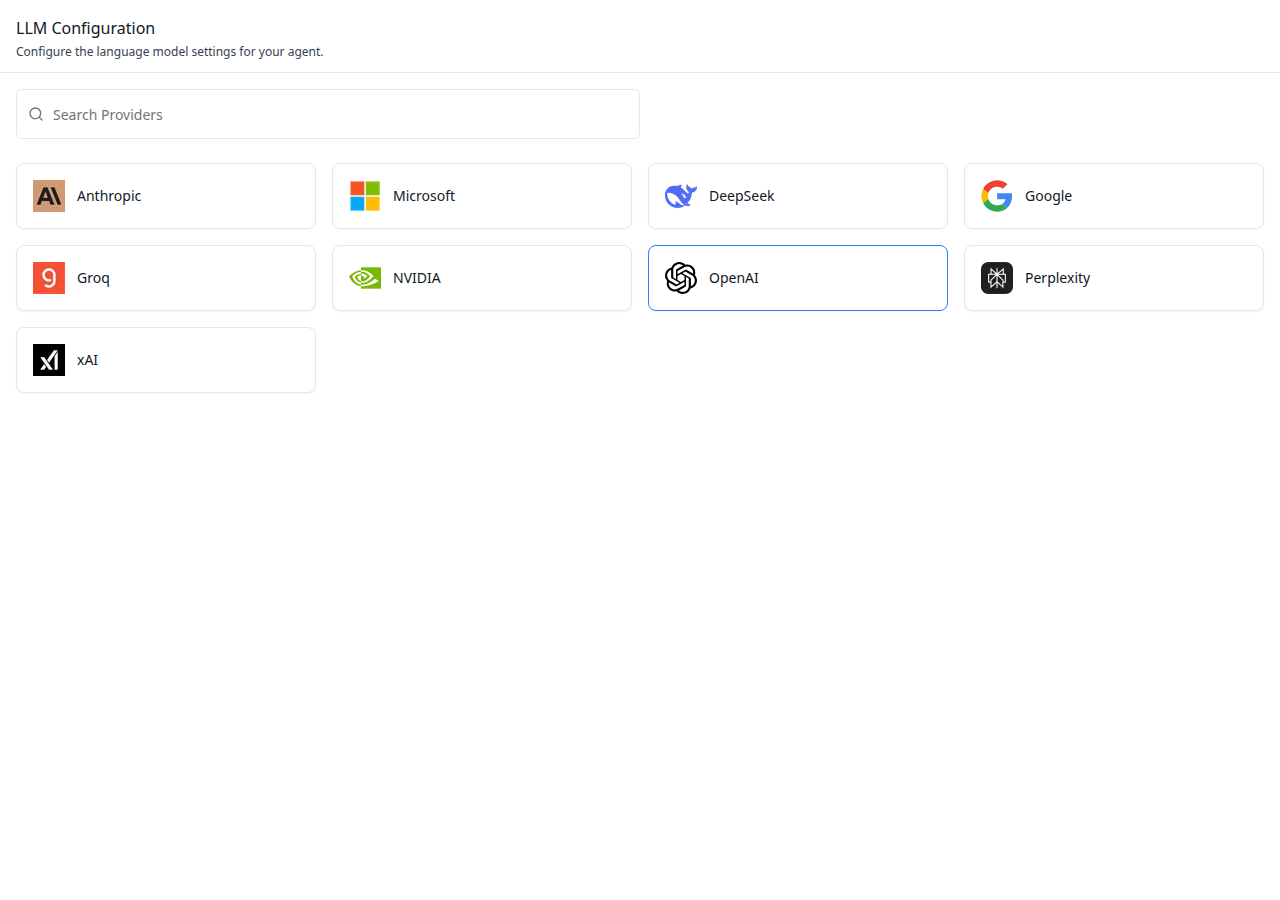
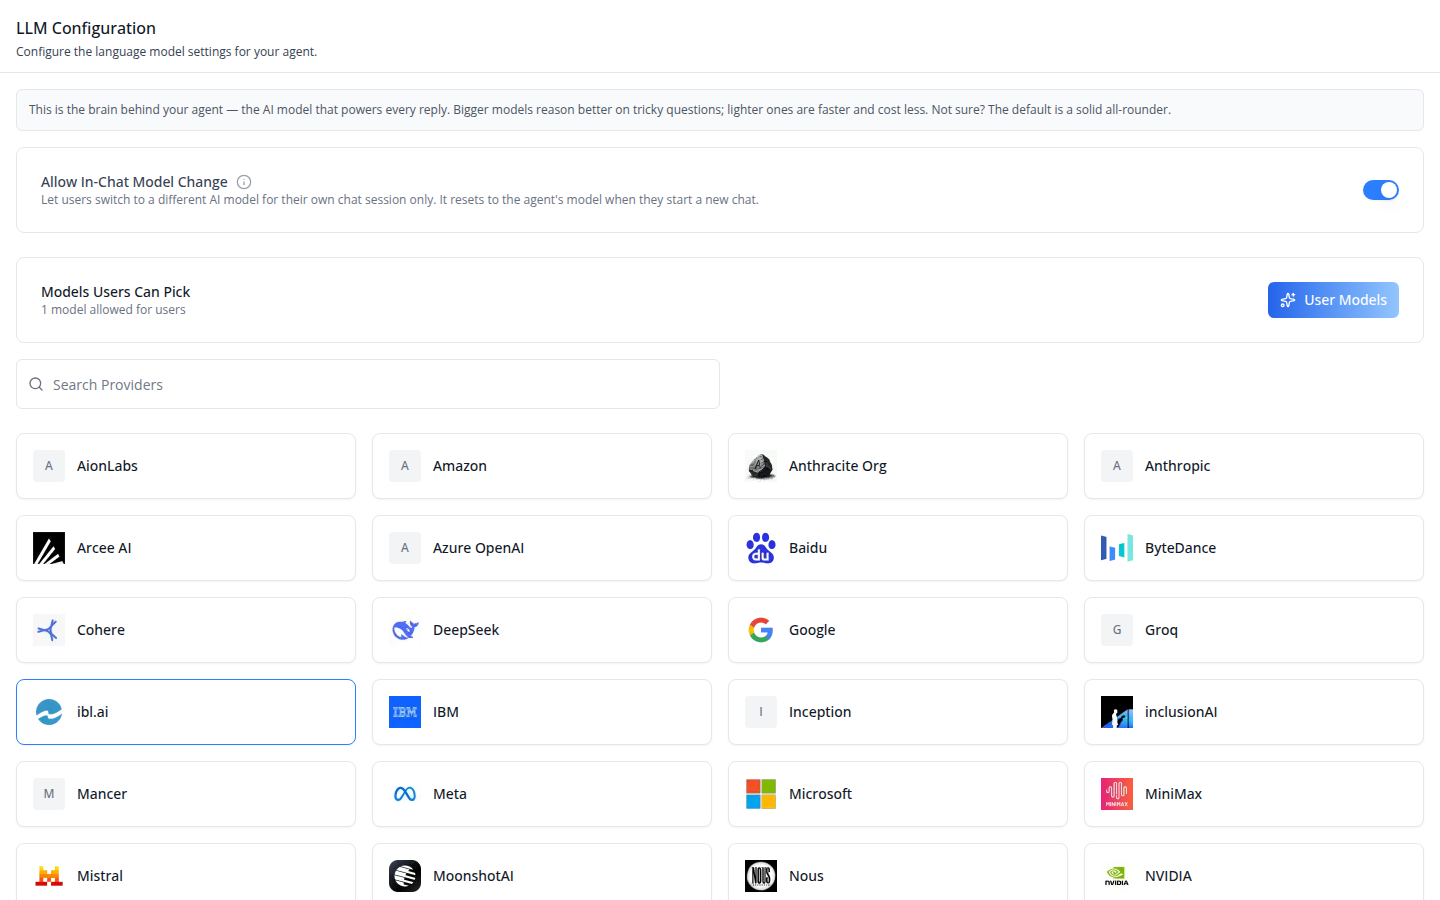
docs(agent-llm): in-chat model change and the user models picker
Claude-Session: https://claude.ai/code/session_01KawN1dMH6MkyEsV7W7S2w7

diff --git a/skills/agents/iblai-vibe-agent-llm/SKILL.md b/skills/agents/iblai-vibe-agent-llm/SKILL.md
@@ -1,6 +1,6 @@
 ---
 name: iblai-vibe-agent-llm
-description: Add the agent LLM tab (model provider selection) to your Next.js app
+description: Add the agent LLM tab (model provider selection, in-chat model change, models users can pick) to your Next.js app
 globs:
 alwaysApply: false
 metadata:
@@ -14,8 +14,34 @@ a modal for selecting specific models within a chosen provider. This is
 one tab in the wider agent-settings family. All tabs share the same
 `AgentSettingsProvider` wrapper.
 
-![LLM Tab](https://raw.githubusercontent.com/iblai/vibe/refs/heads/main/skills/agents/iblai-vibe-agent-llm/iblai-vibe-agent-llm.png)
+Above the grid sit two boxes:
+
+- **Allow In-Chat Model Change** -- a switch that lets users pick another
+  model for their own chat session (it resets to the agent's model on a new
+  chat). It moved here from Settings → Capabilities in `@iblai/iblai-js`
+  2.44.0.
+- **Models Users Can Pick** -- shown only to an organization admin
+  (`isTenantAdmin`) while the switch is on. It counts the models users are
+  allowed and holds the **User Models** button.
+
+![LLM tab -- Allow In-Chat Model Change and Models Users Can Pick above the provider grid](https://raw.githubusercontent.com/iblai/vibe/refs/heads/main/skills/agents/iblai-vibe-agent-llm/iblai-vibe-agent-llm.png)
+
+Clicking a provider card opens **LLM Selection**, where you pick the model
+this agent runs on:
+
 ![LLM Selection modal (models of the chosen provider)](https://raw.githubusercontent.com/iblai/vibe/refs/heads/main/skills/agents/iblai-vibe-agent-llm/iblai-vibe-agent-llm-2-model-selection.png)
+
+**User Models** opens a dialog of provider cards (searchable, with
+"N of M allowed" or "All allowed" on each). It sets which models users in
+the organization can pick, for every agent:
+
+![User Models dialog -- provider cards with how many models each allows](https://raw.githubusercontent.com/iblai/vibe/refs/heads/main/skills/agents/iblai-vibe-agent-llm/iblai-vibe-agent-llm-3-users-models.png)
+
+A card opens the same LLM Selection modal as a checklist: **Allow All
+{Provider} Models** (new models of that provider included), a checkbox per
+model, "N of M selected" and **Done**. Every tick saves at once:
+
+![LLM Selection as a checklist -- Allow All OpenAI Models and one checkbox per model](https://raw.githubusercontent.com/iblai/vibe/refs/heads/main/skills/agents/iblai-vibe-agent-llm/iblai-vibe-agent-llm-4-users-models-provider.png)
 
 > **Common setup (brand, conventions, env files, verification):** see [docs/skill-setup.md](https://raw.githubusercontent.com/iblai/vibe/refs/heads/main/docs/skill-setup.md).
 
@@ -48,15 +74,23 @@ uses), so the host supplies no mapper. Older SDK releases took a required
 "use client";
 
 import { AgentLLMTab } from "@iblai/iblai-js/web-containers/next";
+import { useAdminMode } from "@/lib/iblai/admin-mode";
 
 export default function AgentLLMPage() {
+  // An organization admin viewing in Admin mode (the starter's User/Admin switch).
+  const { adminMode } = useAdminMode();
   return (
     <div className="flex h-full flex-col bg-white">
-      <AgentLLMTab />
+      <AgentLLMTab isTenantAdmin={adminMode} />
     </div>
   );
 }
 ```
+
+`isTenantAdmin` only decides whether the **Models Users Can Pick** box and
+the User Models dialog render; the backend refuses the save for anyone who
+is not an organization admin. Leave it out (default `false`) on surfaces
+members reach, and in a "switch model" dialog opened from the chat.
 
 The tab reads `tenantKey`, `mentorId` and `username` from the nearest
 `<AgentSettingsProvider>`. Pass `mentorId` to configure a different agent
@@ -75,10 +109,16 @@ import { AgentLLMTab } from "@iblai/iblai-js/web-containers/next";
 
 <AgentLLMTab
   labels={{
-    header: { title: "Model configuration" },
+    header: { title: "Model Configuration" },
+    inChatModelChange: { label: "Let Users Switch Models" },
   }}
 />;
 ```
+
+`LLMTabLabels` groups: `header`, `infoBox`, `inChatModelChange` (`label`,
+`description`, `tooltip`, `tooltipAriaLabel`), `search`, `providerLogoAlt`,
+`toasts`, and `providerModal`. The User Models dialog's copy is not in
+`labels`; it follows the SDK's locale.
 
 ## Step 4: Use MCP Tools for Customization
 
@@ -96,6 +136,41 @@ Import from `@iblai/iblai-js/web-containers/next`.
 | `labels` | `DeepPartial<LLMTabLabels>` | No | Override user-visible strings |
 | `showConfigurationHeader` | `boolean` | No | Show/hide the configuration header (default `true`) |
 | `mentorId` | `string` | No | Configure this agent instead of the one from `<AgentSettingsProvider>` — for a model picker opened from a chat |
+| `isTenantAdmin` | `boolean` | No | Organization admin acting as one: while Allow In-Chat Model Change is on, shows **Models Users Can Pick** and the User Models dialog (default `false`) |
+
+## How it saves
+
+| Control | Request | Body |
+|---------|---------|------|
+| Model in LLM Selection | `PUT /api/ai-mentor/orgs/{org}/users/{username}/mentors/{mentor}/settings/` (`useEditMentorMutation`) | `llm_provider`, `llm_name` |
+| Allow In-Chat Model Change | same settings `PUT`, at once (through `executeGatedAction` when the provider sets one) | `enable_in_chat_llm_change` |
+| User Models dialog (read) | `GET /api/core/rbac/llm-access/status/?platform_key={org}` (`useGetLlmAccessQuery`) | -- |
+| Each tick in the checklist | `POST /api/core/rbac/llm-access/set/` (`useSetLlmAccessMutation`) | `{ platform_key, llm_resources }`, the whole list |
+
+`llm_resources` holds RBAC paths: `llms/` (every model), `llms/<provider>/`
+(every model of one provider, new ones included) and
+`llms/<provider>/models/<llm_name>` (one model), built from the provider
+`name` and the model `llm_name`. Saves run one at a time and the last tick
+wins. A failed save puts the tick back; a 400 names the model that is no
+longer offered and offers **Remove It**; unticking the last model asks
+first (**Save with No Models?**). The backend enforces the list: users
+who are not admins see only the allowed models in the chat's model
+picker. The endpoints are in [`/iblai-api-rbac`](https://raw.githubusercontent.com/iblai/vibe/refs/heads/main/skills/users/iblai-api-rbac/SKILL.md).
+
+Under RBAC (`enableRBAC`) the switch follows the agent's field permissions
+for `enable_in_chat_llm_change` and is read-only without write access.
+
+## Test ids
+
+| Element | `data-testid` |
+|---------|---------------|
+| Info box | `llm-info-box` |
+| Allow In-Chat Model Change switch | `llm-in-chat-model-change-toggle` |
+| Models Users Can Pick box, its count, its button | `users-models-summary`, `users-models-summary-count`, `llm-users-models-button` |
+| Provider card (grid) | `llm-provider-card` (`data-provider`, `data-disabled`) |
+| User Models dialog, provider card, card count | `users-models-dialog`, `users-models-provider-card` (`data-provider`), `users-models-count-<provider>` |
+| Checklist rows, Done | `users-models-allow-all-<provider>`, `users-models-model-<provider>-<llm_name>`, `users-models-done` |
+| Save refused, Remove It, confirm empty | `users-models-save-error`, `users-models-remove-rejected`, `users-models-confirm-empty-save` |
 
 ## Related Exports
 
@@ -105,6 +180,16 @@ From `@iblai/iblai-js/web-containers/next`:
 - `LLMTabLabels` -- type for the full label bundle.
 - `LLMProvider`, `LLMProviderType` -- types for provider data structures
   (`LLMProviderType` is the `{ name, chat_models }` provider row).
+- `LLMProviderModal` -- the LLM Selection modal, for opening it outside the
+  tab. Pass `selection` (type `LLMModelSelection`: `isSelected`, `toggle`,
+  `allSelected`, `toggleAll`, `labels`, `testIdPrefix`) instead of
+  `onSelect` / `isSelecting` / `mentorSettings` / `llms` to get the
+  checklist the User Models dialog uses.
+
+From `@iblai/iblai-js/data-layer`:
+
+- `useGetLlmAccessQuery({ platform_key })`,
+  `useSetLlmAccessMutation()` -- read and replace the models users can pick.
 
 From `@iblai/iblai-js/web-containers`, for custom UI that shows a
 provider's name or logo (an agents table, a transcript row):
@@ -125,6 +210,8 @@ Run `/iblai-vibe-ops-test` before telling the user the work is ready:
 2. `pnpm test` -- vitest must pass
 3. Touch test `/agents/<id>/llm` in the browser as `/iblai-vibe-ops-test` says: open it,
    use every control this skill added, read the console, check the phone width.
+   As an organization admin, turn on Allow In-Chat Model Change and check
+   that **Models Users Can Pick** appears and User Models opens.
 
 ## Important Notes
 
@@ -135,6 +222,11 @@ Run `/iblai-vibe-ops-test` before telling the user the work is ready:
   (`pnpm add sonner @iblai/iblai-web-mentor`)
 - **Shared provider**: `AgentSettingsProvider` must wrap the route at a
   layout level. See `/iblai-vibe-agent-setting` Step 2 for the full snippet.
+- **The switch moved**: Allow In-Chat Model Change used to be in
+  Settings → Capabilities. Since `@iblai/iblai-js` 2.44.0 it is only here,
+  and the Settings tab no longer sends `enable_in_chat_llm_change`.
+- **User Models is organization-wide**: the list applies to every agent in
+  the organization, not just the one being edited.
 - **Provider naming is backend-owned**: logos and display names come from
   the organization's model catalogue, so the tab needs no host mapper.
   Older SDK releases took a required `getLLMProviderDetails` prop; it no

diff --git a/adapters/codex/iblai-vibe-agent-llm.md b/adapters/codex/iblai-vibe-agent-llm.md
@@ -1,6 +1,6 @@
 # iblai-vibe-agent-llm
 
-> Add the agent LLM tab (model provider selection) to your Next.js app
+> Add the agent LLM tab (model provider selection, in-chat model change, models users can pick) to your Next.js app
 
 # /iblai-vibe-agent-llm
 
@@ -9,8 +9,34 @@ a modal for selecting specific models within a chosen provider. This is
 one tab in the wider agent-settings family. All tabs share the same
 `AgentSettingsProvider` wrapper.
 
-![LLM Tab](https://raw.githubusercontent.com/iblai/vibe/refs/heads/main/skills/agents/iblai-vibe-agent-llm/iblai-vibe-agent-llm.png)
+Above the grid sit two boxes:
+
+- **Allow In-Chat Model Change** -- a switch that lets users pick another
+  model for their own chat session (it resets to the agent's model on a new
+  chat). It moved here from Settings → Capabilities in `@iblai/iblai-js`
+  2.44.0.
+- **Models Users Can Pick** -- shown only to an organization admin
+  (`isTenantAdmin`) while the switch is on. It counts the models users are
+  allowed and holds the **User Models** button.
+
+![LLM tab -- Allow In-Chat Model Change and Models Users Can Pick above the provider grid](https://raw.githubusercontent.com/iblai/vibe/refs/heads/main/skills/agents/iblai-vibe-agent-llm/iblai-vibe-agent-llm.png)
+
+Clicking a provider card opens **LLM Selection**, where you pick the model
+this agent runs on:
+
 ![LLM Selection modal (models of the chosen provider)](https://raw.githubusercontent.com/iblai/vibe/refs/heads/main/skills/agents/iblai-vibe-agent-llm/iblai-vibe-agent-llm-2-model-selection.png)
+
+**User Models** opens a dialog of provider cards (searchable, with
+"N of M allowed" or "All allowed" on each). It sets which models users in
+the organization can pick, for every agent:
+
+![User Models dialog -- provider cards with how many models each allows](https://raw.githubusercontent.com/iblai/vibe/refs/heads/main/skills/agents/iblai-vibe-agent-llm/iblai-vibe-agent-llm-3-users-models.png)
+
+A card opens the same LLM Selection modal as a checklist: **Allow All
+{Provider} Models** (new models of that provider included), a checkbox per
+model, "N of M selected" and **Done**. Every tick saves at once:
+
+![LLM Selection as a checklist -- Allow All OpenAI Models and one checkbox per model](https://raw.githubusercontent.com/iblai/vibe/refs/heads/main/skills/agents/iblai-vibe-agent-llm/iblai-vibe-agent-llm-4-users-models-provider.png)
 
 > **Common setup (brand, conventions, env files, verification):** see [docs/skill-setup.md](https://raw.githubusercontent.com/iblai/vibe/refs/heads/main/docs/skill-setup.md).
 
@@ -43,15 +69,23 @@ uses), so the host supplies no mapper. Older SDK releases took a required
 "use client";
 
 import { AgentLLMTab } from "@iblai/iblai-js/web-containers/next";
+import { useAdminMode } from "@/lib/iblai/admin-mode";
 
 export default function AgentLLMPage() {
+  // An organization admin viewing in Admin mode (the starter's User/Admin switch).
+  const { adminMode } = useAdminMode();
   return (
     <div className="flex h-full flex-col bg-white">
-      <AgentLLMTab />
+      <AgentLLMTab isTenantAdmin={adminMode} />
     </div>
   );
 }
 ```
+
+`isTenantAdmin` only decides whether the **Models Users Can Pick** box and
+the User Models dialog render; the backend refuses the save for anyone who
+is not an organization admin. Leave it out (default `false`) on surfaces
+members reach, and in a "switch model" dialog opened from the chat.
 
 The tab reads `tenantKey`, `mentorId` and `username` from the nearest
 `<AgentSettingsProvider>`. Pass `mentorId` to configure a different agent
@@ -70,10 +104,16 @@ import { AgentLLMTab } from "@iblai/iblai-js/web-containers/next";
 
 <AgentLLMTab
   labels={{
-    header: { title: "Model configuration" },
+    header: { title: "Model Configuration" },
+    inChatModelChange: { label: "Let Users Switch Models" },
   }}
 />;
 ```
+
+`LLMTabLabels` groups: `header`, `infoBox`, `inChatModelChange` (`label`,
+`description`, `tooltip`, `tooltipAriaLabel`), `search`, `providerLogoAlt`,
+`toasts`, and `providerModal`. The User Models dialog's copy is not in
+`labels`; it follows the SDK's locale.
 
 ## Step 4: Use MCP Tools for Customization
 
@@ -91,6 +131,41 @@ Import from `@iblai/iblai-js/web-containers/next`.
 | `labels` | `DeepPartial<LLMTabLabels>` | No | Override user-visible strings |
 | `showConfigurationHeader` | `boolean` | No | Show/hide the configuration header (default `true`) |
 | `mentorId` | `string` | No | Configure this agent instead of the one from `<AgentSettingsProvider>` — for a model picker opened from a chat |
+| `isTenantAdmin` | `boolean` | No | Organization admin acting as one: while Allow In-Chat Model Change is on, shows **Models Users Can Pick** and the User Models dialog (default `false`) |
+
+## How it saves
+
+| Control | Request | Body |
+|---------|---------|------|
+| Model in LLM Selection | `PUT /api/ai-mentor/orgs/{org}/users/{username}/mentors/{mentor}/settings/` (`useEditMentorMutation`) | `llm_provider`, `llm_name` |
+| Allow In-Chat Model Change | same settings `PUT`, at once (through `executeGatedAction` when the provider sets one) | `enable_in_chat_llm_change` |
+| User Models dialog (read) | `GET /api/core/rbac/llm-access/status/?platform_key={org}` (`useGetLlmAccessQuery`) | -- |
+| Each tick in the checklist | `POST /api/core/rbac/llm-access/set/` (`useSetLlmAccessMutation`) | `{ platform_key, llm_resources }`, the whole list |
+
+`llm_resources` holds RBAC paths: `llms/` (every model), `llms/<provider>/`
+(every model of one provider, new ones included) and
+`llms/<provider>/models/<llm_name>` (one model), built from the provider
+`name` and the model `llm_name`. Saves run one at a time and the last tick
+wins. A failed save puts the tick back; a 400 names the model that is no
+longer offered and offers **Remove It**; unticking the last model asks
+first (**Save with No Models?**). The backend enforces the list: users
+who are not admins see only the allowed models in the chat's model
+picker. The endpoints are in [`/iblai-api-rbac`](https://raw.githubusercontent.com/iblai/vibe/refs/heads/main/skills/users/iblai-api-rbac/SKILL.md).
+
+Under RBAC (`enableRBAC`) the switch follows the agent's field permissions
+for `enable_in_chat_llm_change` and is read-only without write access.
+
+## Test ids
+
+| Element | `data-testid` |
+|---------|---------------|
+| Info box | `llm-info-box` |
+| Allow In-Chat Model Change switch | `llm-in-chat-model-change-toggle` |
+| Models Users Can Pick box, its count, its button | `users-models-summary`, `users-models-summary-count`, `llm-users-models-button` |
+| Provider card (grid) | `llm-provider-card` (`data-provider`, `data-disabled`) |
+| User Models dialog, provider card, card count | `users-models-dialog`, `users-models-provider-card` (`data-provider`), `users-models-count-<provider>` |
+| Checklist rows, Done | `users-models-allow-all-<provider>`, `users-models-model-<provider>-<llm_name>`, `users-models-done` |
+| Save refused, Remove It, confirm empty | `users-models-save-error`, `users-models-remove-rejected`, `users-models-confirm-empty-save` |
 
 ## Related Exports
 
@@ -100,6 +175,16 @@ From `@iblai/iblai-js/web-containers/next`:
 - `LLMTabLabels` -- type for the full label bundle.
 - `LLMProvider`, `LLMProviderType` -- types for provider data structures
   (`LLMProviderType` is the `{ name, chat_models }` provider row).
+- `LLMProviderModal` -- the LLM Selection modal, for opening it outside the
+  tab. Pass `selection` (type `LLMModelSelection`: `isSelected`, `toggle`,
+  `allSelected`, `toggleAll`, `labels`, `testIdPrefix`) instead of
+  `onSelect` / `isSelecting` / `mentorSettings` / `llms` to get the
+  checklist the User Models dialog uses.
+
+From `@iblai/iblai-js/data-layer`:
+
+- `useGetLlmAccessQuery({ platform_key })`,
+  `useSetLlmAccessMutation()` -- read and replace the models users can pick.
 
 From `@iblai/iblai-js/web-containers`, for custom UI that shows a
 provider's name or logo (an agents table, a transcript row):
@@ -120,6 +205,8 @@ Run `/iblai-vibe-ops-test` before telling the user the work is ready:
 2. `pnpm test` -- vitest must pass
 3. Touch test `/agents/<id>/llm` in the browser as `/iblai-vibe-ops-test` says: open it,
    use every control this skill added, read the console, check the phone width.
+   As an organization admin, turn on Allow In-Chat Model Change and check
+   that **Models Users Can Pick** appears and User Models opens.
 
 ## Important Notes
 
@@ -130,6 +217,11 @@ Run `/iblai-vibe-ops-test` before telling the user the work is ready:
   (`pnpm add sonner @iblai/iblai-web-mentor`)
 - **Shared provider**: `AgentSettingsProvider` must wrap the route at a
   layout level. See `/iblai-vibe-agent-setting` Step 2 for the full snippet.
+- **The switch moved**: Allow In-Chat Model Change used to be in
+  Settings → Capabilities. Since `@iblai/iblai-js` 2.44.0 it is only here,
+  and the Settings tab no longer sends `enable_in_chat_llm_change`.
+- **User Models is organization-wide**: the list applies to every agent in
+  the organization, not just the one being edited.
 - **Provider naming is backend-owned**: logos and display names come from
   the organization's model catalogue, so the tab needs no host mapper.
   Older SDK releases took a required `getLLMProviderDetails` prop; it no

diff --git a/docs/catalogue.md b/docs/catalogue.md
@@ -108,7 +108,7 @@ word ("memory", "settings", "metadata") exists at four scopes.
 | [`/iblai-vibe-agent-evals`](../skills/agents/iblai-vibe-agent-evals/SKILL.md) | 🖥 ui | Add the agent Evals tab (run the agent against benchmarks, score responses with LLM-as-Judge reviews or manual scores, export CSV) to you… |
 | [`/iblai-vibe-agent-grader`](../skills/agents/iblai-vibe-agent-grader/SKILL.md) | 🖥 ui | Add the agent Grader tab (rubric-based grading with a grading toggle, grading setup form, criteria table, and grade results with LMS-sync… |
 | [`/iblai-vibe-agent-history`](../skills/agents/iblai-vibe-agent-history/SKILL.md) | 🖥 ui | Add the agent History tab (every user's conversations with this agent |
-| [`/iblai-vibe-agent-llm`](../skills/agents/iblai-vibe-agent-llm/SKILL.md) | 🖥 ui | Add the agent LLM tab (model provider selection) to your Next.js app |
+| [`/iblai-vibe-agent-llm`](../skills/agents/iblai-vibe-agent-llm/SKILL.md) | 🖥 ui | Add the agent LLM tab (model provider selection, in-chat model change, models users can pick) to your Next.js app |
 | [`/iblai-vibe-agent-lti`](../skills/agents/iblai-vibe-agent-lti/SKILL.md) | 🖥 ui | Add the agent LTI tab (LTI 1.3 launch toggle with agent links, signing keys, tools, and platform endpoints) to your Next.js app |
 | [`/iblai-vibe-agent-mcp`](../skills/agents/iblai-vibe-agent-mcp/SKILL.md) | 🖥 ui | Add the agent MCP tab (Model Context Protocol connector management with featured connectors, custom connectors, OAuth, and add/edit dialo… |
 | [`/iblai-vibe-agent-privacy`](../skills/agents/iblai-vibe-agent-privacy/SKILL.md) | 🖥 ui | Add the agent Privacy tab with two sub-tabs, PII Filtering (detect personal information in messages and allow, redact, mask or block it, … |

diff --git a/adapters/codex/iblai-api-agent-llm.md b/adapters/codex/iblai-api-agent-llm.md
@@ -34,6 +34,14 @@ runs on.
     "llm_name": "string (required)"
   }
   ```
+- **PUT** `…/users/{username}/mentors/{mentor}/settings/` — let users switch
+  the model in their own chat session (Allow In-Chat Model Change; it resets
+  to the agent's model on a new chat):
+  ```json
+  {
+    "enable_in_chat_llm_change": "boolean"
+  }
+  ```
 
 ## Example
 
@@ -53,3 +61,7 @@ curl -X PUT \
   `llm_name` pair that appears in that list — values must match a real card.
 - Selection persists through the shared `settings/` endpoint, so it sits
   alongside the other configuration fields on the same agent.
+- Which models users may pick when in-chat model change is on is an
+  organization-wide list, not an agent setting: `GET`/`POST`
+  `/api/core/rbac/llm-access/…` in `/iblai-api-rbac`. The LLM tab's User
+  Models dialog (`/iblai-vibe-agent-llm`) edits it.

diff --git a/skills/agents/iblai-api-agent-llm/SKILL.md b/skills/agents/iblai-api-agent-llm/SKILL.md
@@ -37,6 +37,14 @@ runs on.
     "llm_name": "string (required)"
   }
   ```
+- **PUT** `…/users/{username}/mentors/{mentor}/settings/` — let users switch
+  the model in their own chat session (Allow In-Chat Model Change; it resets
+  to the agent's model on a new chat):
+  ```json
+  {
+    "enable_in_chat_llm_change": "boolean"
+  }
+  ```
 
 ## Example
 
@@ -56,3 +64,7 @@ curl -X PUT \
   `llm_name` pair that appears in that list — values must match a real card.
 - Selection persists through the shared `settings/` endpoint, so it sits
   alongside the other configuration fields on the same agent.
+- Which models users may pick when in-chat model change is on is an
+  organization-wide list, not an agent setting: `GET`/`POST`
+  `/api/core/rbac/llm-access/…` in `/iblai-api-rbac`. The LLM tab's User
+  Models dialog (`/iblai-vibe-agent-llm`) edits it.
